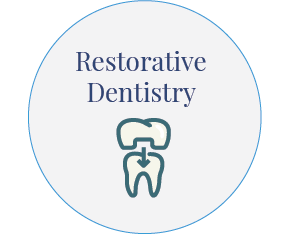
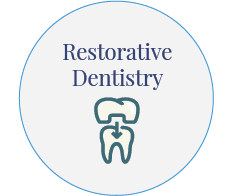
Resized the service components, added global text size.

diff --git a/src/global.scss b/src/global.scss
@@ -1,11 +1,15 @@
 // Background colors
-$primary-background-color: #304774 !important;
+$primary-background-color: #1A2440 !important; // #304774
 $secondary-background-color: #E4EAF1 !important;
-$teriary-background-color: #73305B !important;
+$teriary-background-color:  #B4B8C5 !important; //#73305B 
 
 // Texts
 $primary-text: white !important;
 $secondary-text: #304774 !important;
+
+// Font size
+$primary-font-size: 23px !important;
+$secondary-font-size: 27px !important;
 
 body {
     margin: 0;

diff --git a/src/components/FeaturedServices/FeaturedServices.module.scss b/src/components/FeaturedServices/FeaturedServices.module.scss
@@ -4,14 +4,14 @@
     display: flex;
     justify-content: center;
     background-color: $secondary-background-color;
-    min-height: 440px;
+    min-height: 360px;
     align-items: center;
     flex-direction: column;
     box-shadow : 2px 0px 5px rgba(35, 31, 32, 0.62);
 }
 
 .Text {
-    font-size: 30px;
+    font-size: $primary-font-size;
     color: $secondary-text;
     text-align: center;
 }

diff --git a/src/components/BeforeAndAfter/BeforeAndAfter.module.scss b/src/components/BeforeAndAfter/BeforeAndAfter.module.scss
@@ -28,13 +28,13 @@
 
 .Header {
     font-family: PlayfairDisplay-Bold;
-    font-size: 30px;
+    font-size: $primary-font-size;
     margin-bottom: 0px;
 }
 
 .Captions {
     font-family: PlayfairDisplay-Regular;
-    font-size: 27px;
+    font-size: $primary-font-size;
     color: $primary-text;
     margin-top: 0;
     display: inline-block;

diff --git a/src/App.js b/src/App.js
@@ -8,7 +8,7 @@ export default function App() {
   return (
     <>
       <Navigation></Navigation>
-      <div style={{minHeight: "507px"}}></div>
+      <div style={{minHeight: "700px"}}></div>
       <BeforeAndAfter></BeforeAndAfter>
       <FeaturedServices></FeaturedServices>
       <ContactInfo></ContactInfo>
